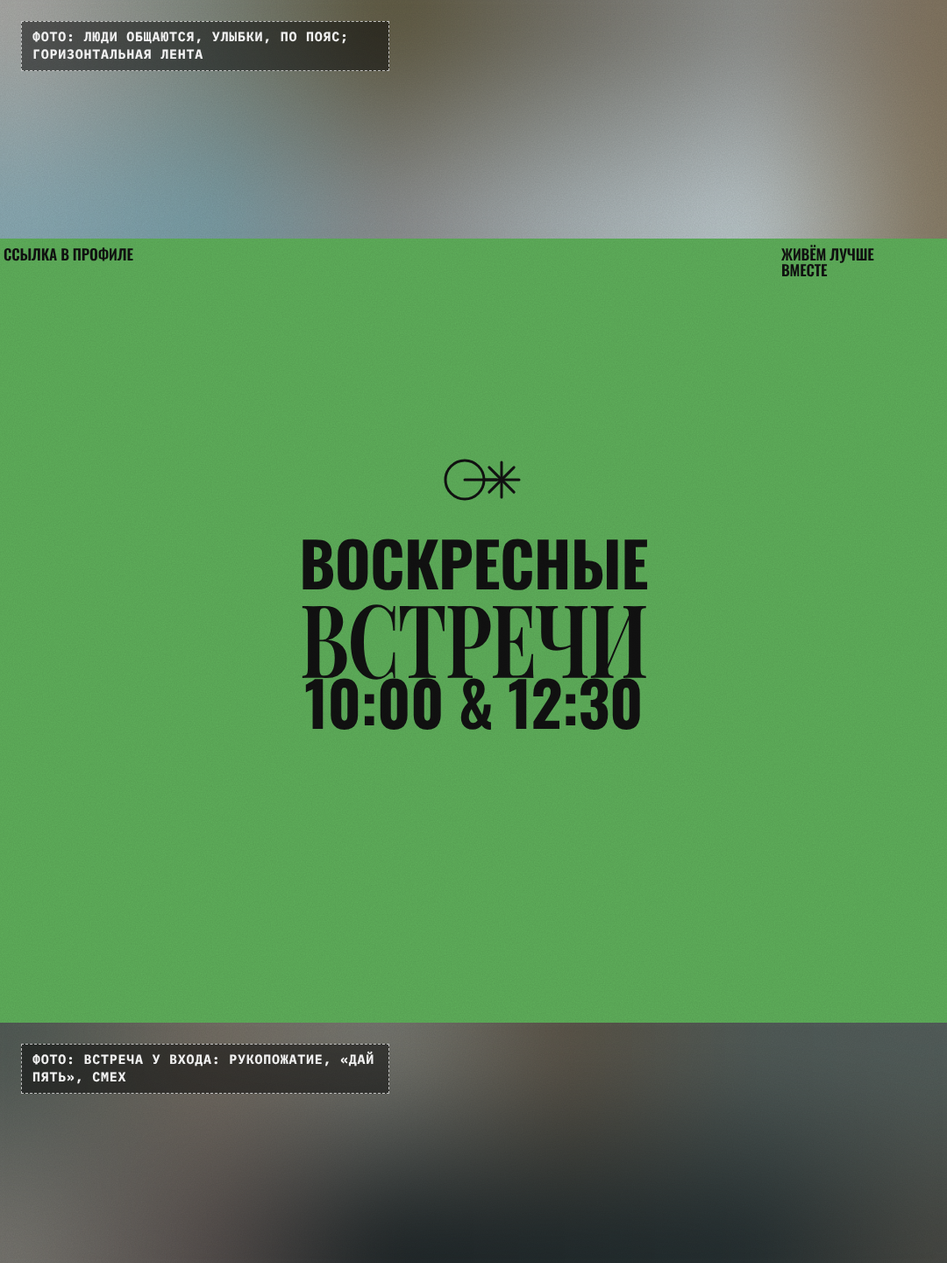
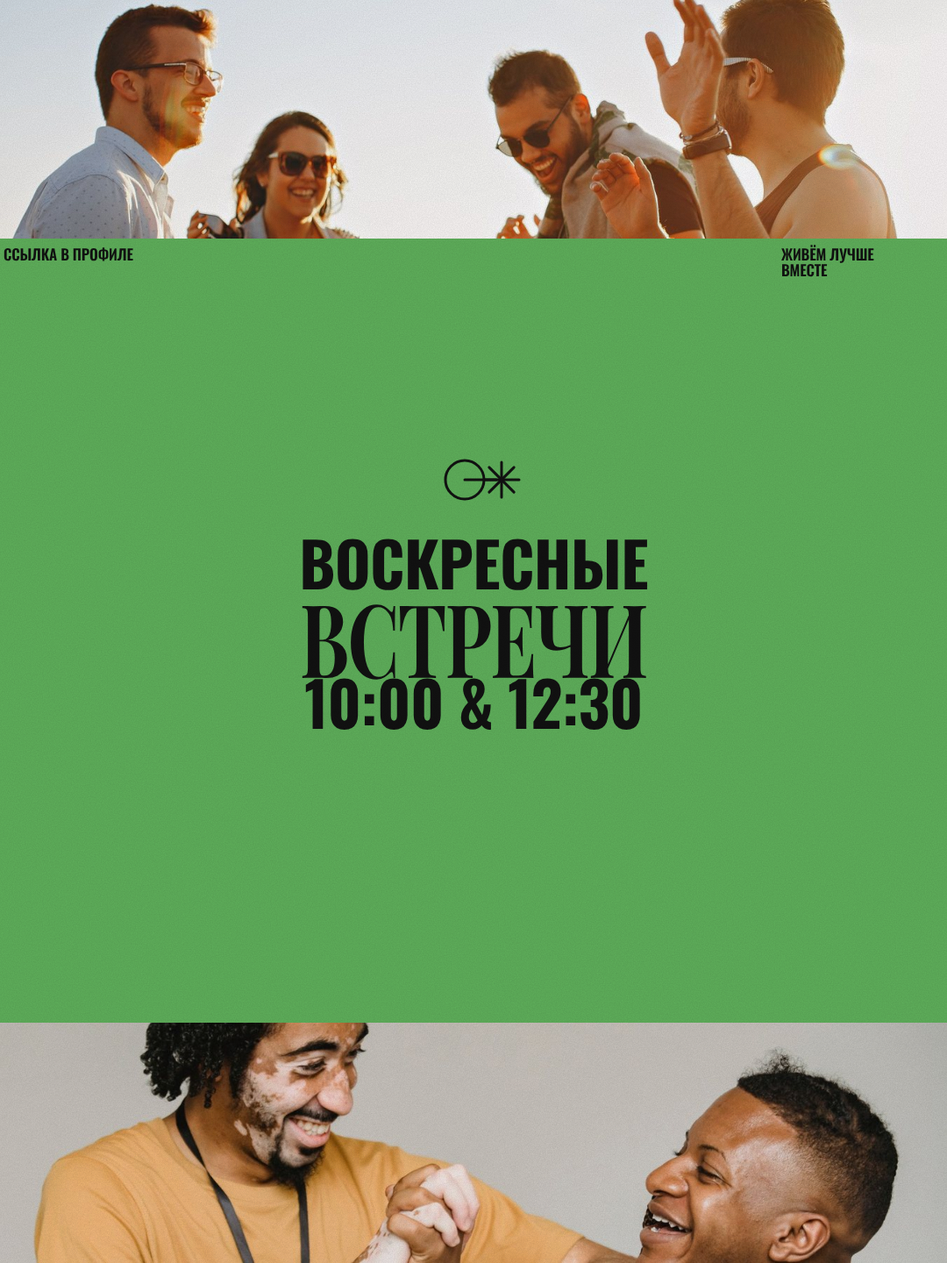
Близнецы: стоковые фото вместо размытых заглушек
В девяти близнецах (001, 003, 006, 015, 021, 036, 037, 049, 072) слоты и силуэты
заменены фото с Pexels (бесплатная лицензия Pexels). Людей для 006, 015, 021,
руку в 001 и бокал с хлебом в 049 вырезал rembg.

Источники (pexels.com/photo/<номер>): 6672761, 9831736, 15448072, 10401281,
18259215, 8217536, 33167538, 7081122, 17938981, 708392, 5304083, 31874011,
7597560, 10281119, 15021636. Таблица с авторами и обработкой — STOCK.md.

Claude-Session: https://claude.ai/code/session_01QcpF8q36dATzwPnrN5PE56

diff --git a/projects/2026-10-18-twins/twin-006.html b/projects/2026-10-18-twins/twin-006.html
@@ -14,6 +14,8 @@
   :root { --mustard: #F0A80C; --dark: #1a1a1a; }
   body, .canvas { background: var(--dark); }
   .slot.bg .ph { filter: blur(34px) grayscale(1) contrast(1.4) brightness(.85); }
+  .slot.bg img { filter: grayscale(1) contrast(1.4) brightness(.85); }
+  .pastor { left: 330px; top: 425px; width: 525px; z-index: 4; filter: url(#outline); }
   .duo { position: absolute; inset: 0; background: #C48C0E; mix-blend-mode: multiply; z-index: 2; }
   .brush { font: 400 150px/1 'Comforter Brush'; color: var(--mustard); -webkit-text-stroke: 6px var(--mustard); white-space: nowrap; }
   .title { left: 94px; top: 280px; transform: rotate(-4deg) scaleY(1.45); transform-origin: left center; z-index: 3; }
@@ -24,17 +26,20 @@
 </head>
 <body>
 <main class="canvas grain-light">
-  <div class="slot bg" style="left: 0; top: 0; width: 1080px; height: 1350px; z-index: 1;" data-ph="assets/ph-006-1.png"
+  <div class="slot bg" style="left: 0; top: 0; width: 1080px; height: 1350px; z-index: 1;" data-src="assets/006-bg.jpg" data-ph="assets/ph-006-1.png"
        data-need="фон: люди в зале, крупные лица — уйдёт в горчичный дуотон" data-label="40,40"></div>
   <div class="duo"></div>
   <svg class="art" id="scratch" width="1080" height="1350" viewBox="0 0 1080 1350" style="z-index: 3"></svg>
   <div class="abs brush title" id="title">Заметки с проповеди</div>
-  <svg class="art" id="person" width="1080" height="1350" viewBox="0 0 1080 1350" style="z-index: 4"></svg>
+  <svg width="0" height="0" style="position: absolute"><filter id="outline" x="-10%" y="-10%" width="120%" height="120%">
+    <feMorphology in="SourceAlpha" operator="dilate" radius="16" result="d"/>
+    <feFlood flood-color="#F0A80C"/><feComposite in2="d" operator="in" result="o"/>
+    <feMerge><feMergeNode in="o"/><feMergeNode in="SourceGraphic"/></feMerge></filter></svg>
+  <img class="cut pastor" src="assets/006-pastor.png" alt="">
   <svg class="art" id="marks" width="1080" height="1350" viewBox="0 0 1080 1350" style="z-index: 6"></svg>
   <div class="abs note" style="left: 210px; top: 125px; width: 280px; transform: rotate(-8deg);">Бог видит<br>сердце!!!</div>
   <div class="abs note" style="left: 90px; top: 752px; width: 240px; font-size: 54px; transform: rotate(-20deg);">Пастор Иван</div>
   <div class="abs tape">18.10.26</div>
-  <div class="need" style="left: 300px; top: 1080px; z-index: 8;">Фото: проповедник с микрофоном, по пояс, без фона (PNG)</div>
 </main>
 <script src="twin.js"></script>
 <script>
@@ -48,9 +53,6 @@
     const a = Math.PI / 2 + (random() - 0.5) * 0.5;
     svgEl(scratch, 'line', { x1: x, y1: y, x2: x + len * Math.cos(a), y2: y + len * Math.sin(a), stroke: '#fff', 'stroke-width': (0.5 + random()).toFixed(2), 'stroke-opacity': (0.05 + random() * 0.12).toFixed(2) });
   }
-  // Вырезанный проповедник: заглушка-силуэт с толстой горчичной обводкой.
-  drawBust(document.getElementById('person'), 270, 445, 648, 905, { fill: '#9a968f', outline: '#F0A80C', width: 16 });
-
   const marks = document.getElementById('marks');
   const white = { fill: 'none', stroke: '#F4F2EE', 'stroke-width': 5, 'stroke-linecap': 'round', 'stroke-linejoin': 'round' };
   svgEl(marks, 'path', { d: handOval(350, 180, 142, 105, random, 1.06), ...white, transform: 'rotate(-8 350 180)' });

diff --git a/projects/2026-10-18-twins/twin-021.html b/projects/2026-10-18-twins/twin-021.html
@@ -20,6 +20,9 @@
   .card { position: absolute; background: var(--card); border-radius: 34px; box-shadow: 0 10px 30px rgba(0,0,0,.25); }
   .pic { position: absolute; background: var(--mustard); border-radius: 24px; }
   .txt { position: absolute; }
+  /* Люди без фона в ч/б: низ обрезан по плашке, головы выходят вверх. */
+  .cutbox { border-radius: 0 0 24px 24px; }
+  .cutbox img { position: absolute; bottom: 0; left: 50%; transform: translateX(-50%); filter: grayscale(1) contrast(1.1); }
   .txt .d { font: 500 33px/1 'Montserrat'; letter-spacing: -0.01em; text-transform: uppercase; }
   .txt .c { margin-top: 12px; font: 400 21px/1.1 'Montserrat'; text-transform: uppercase; }
   .txt .n { margin-top: 10px; font: 700 28px/1 'Montserrat'; color: var(--mustard); text-transform: uppercase; letter-spacing: -0.01em; }
@@ -52,9 +55,11 @@
   <div class="pic" style="left: 633px; top: 990px; width: 317px; height: 196px;"></div>
   <div class="txt" style="left: 294px; top: 994px;"><div class="d">Вс 25 окт</div><div class="c">Служение | 10:00</div><div class="n">Первое служение</div><hr><div class="c" style="margin-top: 0">Служение | 12:30</div><div class="n">Второе служение</div></div>
 
-  <svg class="art" id="people" width="1080" height="1350" viewBox="0 0 1080 1350"></svg>
+  <div class="cutbox" style="left: 119px; top: 123px; width: 313px; height: 309px;"><img src="assets/021-1.png" style="width: 200px;" alt=""></div>
+  <div class="cutbox" style="left: 633px; top: 373px; width: 317px; height: 316px;"><img src="assets/021-2.png" style="width: 370px;" alt=""></div>
+  <div class="cutbox" style="left: 119px; top: 622px; width: 313px; height: 310px;"><img src="assets/021-3.png" style="width: 300px;" alt=""></div>
+  <div class="cutbox" style="left: 633px; top: 870px; width: 317px; height: 316px;"><img src="assets/021-4.png" style="width: 290px;" alt=""></div>
   <div class="abs foot"><span>Адрес церкви<br>город, улица, дом</span><i></i><span class="r">Вопросы:<br>ссылка в профиле</span></div>
-  <div class="need" style="left: 640px; top: 1210px; max-width: 380px;">Фото: люди со служений без фона (PNG), по 1–3 на карточку</div>
 </main>
 <script src="twin.js"></script>
 <script>
@@ -67,13 +72,6 @@
     for (let x = -40; x <= 1120; x += 80) pts.push([x, base + Math.sin(x / 160 + k) * 40 + random() * 20]);
     svgEl(topo, 'path', { d: smoothOpen(pts), fill: 'none', stroke: '#3a342c', 'stroke-width': 1.2, 'stroke-opacity': 0.6 });
   }
-  // Люди без фона в фото-плашках: голова первого выходит за верх плашки, как в референсе.
-  const people = document.getElementById('people');
-  const gray = { fill: '#8f8b85' };
-  drawBust(people, 190, 205, 170, 227, gray);
-  drawBust(people, 660, 520, 120, 169, gray); drawBust(people, 760, 505, 120, 184, gray); drawBust(people, 850, 525, 100, 164, gray);
-  drawBust(people, 140, 725, 130, 207, gray); drawBust(people, 250, 735, 140, 197, gray);
-  drawBust(people, 660, 970, 140, 216, gray); drawBust(people, 790, 985, 140, 201, gray);
 </script>
 </body>
 </html>

diff --git a/projects/2026-10-18-twins/twin-049.html b/projects/2026-10-18-twins/twin-049.html
@@ -18,14 +18,31 @@
   .script { left: 120px; top: 380px; font: 400 230px/1 'Great Vibes'; color: #2a2a2a; white-space: nowrap; }
   .heavy { left: 97px; top: 590px; font: 900 200px/0.9 'Inter'; letter-spacing: -0.05em; text-transform: uppercase; white-space: nowrap;
            background: linear-gradient(180deg, #6d6d6d 0%, #1a1a1a 55%, #000 100%); -webkit-background-clip: text; background-clip: text; color: transparent; }
+  .still { position: absolute; left: 108px; top: 845px; width: 864px; height: 620px; }
+  .still img { position: absolute; }
+  .still .glass { left: 344px; top: 0; width: 220px; }
+  .still .bread { left: 414px; top: 318px; width: 380px; }
+  /* Тень: тот же силуэт, чёрный, сплющенный и скошенный от основания вниз-влево. */
+  .still .sh { filter: brightness(0) blur(5px); transform-origin: 50% 100%; }
+  .still .sh.glass { transform: scaleY(-.42) skewX(52deg); opacity: .13; }
+  .still .sh.bread { transform: translateY(-14px) scaleY(-.42) skewX(55deg); opacity: .2; }
+  /* Красный блик вина на тени бокала. */
+  .still .caustic { position: absolute; left: 312px; top: 466px; width: 140px; height: 42px; border-radius: 50%;
+                    background: radial-gradient(closest-side, rgba(225, 25, 25, .55), rgba(225, 25, 25, 0)); filter: blur(4px); mix-blend-mode: multiply; }
   .addr { left: 0; right: 0; top: 1500px; text-align: center; font: 400 27px/1.4 'Inter'; }
 </style>
 </head>
 <body>
 <main class="canvas grain">
   <div class="abs row"><span>Воскресенье</span><span>10:00</span><span>1 ноября</span></div>
-  <div class="slot" style="left: 108px; top: 845px; width: 864px; height: 620px; background: #efefed;" data-ph="assets/ph-049-1.png"
-       data-need="предметка: стакан вина и хлеб на белом, жёсткий свет, длинные тени" data-label="128,1380"></div>
+  <!-- Предметка собрана из двух стоковых вырезок (бокал и хлеб) с длинными тенями вниз-влево, как в референсе. -->
+  <div class="still">
+    <img class="sh glass" src="assets/049-glass.png" alt="">
+    <img class="sh bread" src="assets/049-bread.png" alt="">
+    <div class="caustic"></div>
+    <img class="glass" src="assets/049-glass.png" alt="">
+    <img class="bread" src="assets/049-bread.png" alt="">
+  </div>
   <div class="abs script" id="script">Святая</div>
   <div class="abs heavy" id="heavy">Вечеря</div>
   <div class="abs addr">Адрес церкви — улица, дом<br>Название церкви</div>

diff --git a/projects/2026-10-18-twins/twin-015.html b/projects/2026-10-18-twins/twin-015.html
@@ -15,6 +15,7 @@
   body, .canvas { background: var(--bg); color: #fff; }
   .ghost { font: 900 300px/0.8 'Fira Sans Extra Condensed'; text-transform: uppercase; white-space: nowrap;
            background: linear-gradient(180deg, #4a4a4a, #1c1c1c 80%); -webkit-background-clip: text; background-clip: text; color: transparent; }
+  .singer { left: 455px; top: 112px; width: 360px; filter: grayscale(1) contrast(1.15); }
   .block { position: absolute; background: var(--orange); overflow: hidden; }
   .block span { position: absolute; left: 12px; top: 0; font: 900 200px/0.8 'Fira Sans Extra Condensed'; color: #121212;
                 text-transform: uppercase; white-space: nowrap; transform-origin: left top; }
@@ -35,7 +36,7 @@
   <div class="abs ghost" data-bleed style="left: 800px; top: -40px;">Ждём</div>
   <div class="abs ghost" data-bleed style="left: -60px; top: 880px;">тебя</div>
   <div class="block" style="left: 98px; top: 95px; width: 711px; height: 347px;"><span id="w1" data-bleed>Ждём</span></div>
-  <svg class="art" id="person" width="1080" height="1080" viewBox="0 0 1080 1080"></svg>
+  <img class="cut singer" src="assets/015-singer.png" alt="">
   <div class="block" style="left: 341px; top: 490px; width: 578px; height: 283px;"><span id="w2" data-bleed>тебя</span></div>
   <div class="abs date">25<br>10<br>26</div>
   <div class="abs time">10:00<br>12:30</div>
@@ -44,13 +45,9 @@
   <div class="abs spk">Пастор<br>Иван</div>
   <div class="abs info">Подробнее<br>ссылка в профиле</div>
   <div class="abs addr">Наша церковь<br>адрес здесь<br>город, улица</div>
-  <div class="need" style="left: 560px; top: 150px;">Фото: поющий человек с микрофоном, ч/б, без фона (PNG)</div>
 </main>
 <script src="twin.js"></script>
 <script>
-  // Вырезанный человек стоит перед первой плашкой и касается второй.
-  drawBust(document.getElementById('person'), 330, 140, 400, 357, { fill: '#8d8a86' });
-
   afterFonts(["900 100px 'Fira Sans Extra Condensed'", "800 52px 'Montserrat'"], () => {
     // Слово растягиваем по ширине плашки и по высоте до ~95 %, как сверхузкий шрифт референса.
     for (const [id, w, h] of [['w1', 690, 347], ['w2', 556, 283]]) {

diff --git a/projects/2026-10-18-twins/twin-072.html b/projects/2026-10-18-twins/twin-072.html
@@ -22,6 +22,9 @@
   .date { left: 925px; top: 860px; font: 700 64px/0.9 'Fira Sans Extra Condensed'; text-transform: uppercase; z-index: 5; }
   .date .r { color: var(--red); }
   .spk { left: 0; right: 0; top: 1020px; text-align: center; font: 700 46px/0.95 'Oswald'; color: #fff; text-transform: uppercase; z-index: 5; }
+  /* Фото растворяется в бумаге сверху и справа, как в референсе: подпись и дата лежат на светлом. */
+  .fade { -webkit-mask-image: linear-gradient(180deg, transparent 0, #000 26%), linear-gradient(270deg, transparent 0, #000 22%);
+          -webkit-mask-composite: source-in; mask-composite: intersect; }
   .band { position: absolute; left: 0; right: 0; bottom: 0; height: 290px; background: #0f0f0f; clip-path: polygon(0 18%, 100% 4%, 100% 100%, 0 100%); z-index: 4; }
   .bottom { left: 128px; right: 66px; top: 1330px; display: flex; align-items: center; justify-content: space-between; z-index: 5; }
   .join { font: 900 62px/1 'Fira Sans Extra Condensed'; color: var(--red); text-transform: uppercase; }
@@ -36,7 +39,7 @@
   <div class="abs name">Название<br>вашей<br>церкви</div>
   <svg class="art" id="icon" width="1080" height="1440" viewBox="0 0 1080 1440"></svg>
   <div class="abs badge">Служение<br>в среду</div>
-  <div class="slot" style="left: 170px; top: 605px; width: 845px; height: 760px; filter: grayscale(1) contrast(1.15);" data-ph="assets/ph-072-1.png"
+  <div class="slot fade" style="left: 170px; top: 605px; width: 845px; height: 760px; filter: grayscale(1) contrast(1.15);" data-src="assets/072.jpg" data-ph="assets/ph-072-1.png"
        data-need="люди обнимаются кругом, молятся вместе; ч/б, крупно" data-label="190,1150"></div>
   <div class="abs cond t1" id="t1">В Его</div>
   <div class="abs cond t2" id="t2">присутствии</div>

diff --git a/projects/2026-10-18-twins/twin-036.html b/projects/2026-10-18-twins/twin-036.html
@@ -20,7 +20,7 @@
 </head>
 <body>
 <main class="canvas grain">
-  <div class="slot" style="left: 0; top: 0; width: 1080px; height: 272px;" data-ph="assets/ph-036-1.png"
+  <div class="slot" style="left: 0; top: 0; width: 1080px; height: 272px;" data-src="assets/036-top.jpg" data-ph="assets/ph-036-1.png"
        data-need="люди общаются, улыбки, по пояс; горизонтальная лента" data-label="24,24"></div>
   <div class="abs tiny" style="left: 4px;">Ссылка в профиле</div>
   <div class="abs tiny" style="left: 891px;">Живём лучше<br>вместе</div>
@@ -28,7 +28,7 @@
   <div class="abs c sans" style="top: 606px;">Воскресные</div>
   <div class="abs c serif" style="top: 668px;">встречи</div>
   <div class="abs c sans" style="top: 765px;">10:00 &amp; 12:30</div>
-  <div class="slot" style="left: 0; top: 1166px; width: 1080px; height: 274px;" data-ph="assets/ph-036-2.png"
+  <div class="slot" style="left: 0; top: 1166px; width: 1080px; height: 274px;" data-src="assets/036-bottom.jpg" data-ph="assets/ph-036-2.png"
        data-need="встреча у входа: рукопожатие, «дай пять», смех" data-label="24,1190"></div>
 </main>
 <script src="twin.js"></script>

diff --git a/projects/2026-10-18-twins/twin-001.html b/projects/2026-10-18-twins/twin-001.html
@@ -19,10 +19,12 @@
 </head>
 <body>
 <main class="canvas grain">
-  <div class="slot" style="left: 0; top: 0; width: 1080px; height: 1350px;" data-ph="assets/ph-001-1.png"
+  <div class="slot" style="left: 0; top: 0; width: 1080px; height: 1350px;" data-src="assets/001.jpg" data-ph="assets/ph-001-1.png"
        data-need="крещение: человек в воде, брызги, эмоция; рука поверх букв — отдельным вырезанным слоем" data-label="40,1220"></div>
   <div class="abs meta"><span>10:00</span><i></i><span>Ссылка в профиле</span></div>
   <div class="abs title" id="title"><span id="t1">День</span><br><span id="t2">крещения</span></div>
+  <!-- Поднятая рука пастора — отдельный вырезанный слой поверх конца заголовка, как в референсе. -->
+  <img class="cut" src="assets/001-hand.png" style="left: 340px; top: 437px; width: 669.6px; z-index: 6;" alt="">
 </main>
 <script src="twin.js"></script>
 <script>

diff --git a/projects/2026-10-18-twins/twin.css b/projects/2026-10-18-twins/twin.css
@@ -9,6 +9,9 @@ svg.art { position: absolute; inset: 0; }
 .slot { position: absolute; overflow: hidden; background: #5c5a57; }
 .slot .ph { position: absolute; inset: -70px; background-size: cover; background-position: center; filter: blur(34px); }
 .slot img { position: absolute; inset: 0; width: 100%; height: 100%; object-fit: cover; }
+/* Вырезанный человек (PNG без фона); .cutbox обрезает его по низу фото-плашки, голова может выходить вверх. */
+.cut { position: absolute; display: block; }
+.cutbox { position: absolute; overflow: hidden; }
 .need {
   position: absolute; z-index: 40; padding: 8px 12px; max-width: 420px;
   font: 600 15px/1.3 'IBM Plex Mono', monospace; letter-spacing: .05em; text-transform: uppercase;

diff --git a/projects/2026-10-18-twins/twin-037.html b/projects/2026-10-18-twins/twin-037.html
@@ -24,7 +24,7 @@
   <div class="abs m" style="left: 708px; top: 438px;">Ваш район</div>
   <div class="abs m" style="left: 48px; top: 607px;">Дом<br>поклонения</div>
   <div class="abs m" style="right: 48px; top: 607px; text-align: right;">Место встречи<br>с Иисусом</div>
-  <div class="slot" style="left: 0; top: 720px; width: 1080px; height: 720px;" data-ph="assets/ph-037-1.png"
+  <div class="slot" style="left: 0; top: 720px; width: 1080px; height: 720px;" data-src="assets/037.jpg" data-ph="assets/ph-037-1.png"
        data-need="люди у входа в церковь, солнечный день, плёночные тёплые цвета" data-label="24,1360"></div>
 </main>
 <script src="twin.js"></script>

diff --git a/projects/2026-10-18-twins/twin-003.html b/projects/2026-10-18-twins/twin-003.html
@@ -20,7 +20,7 @@
 </head>
 <body>
 <main class="canvas grain">
-  <div class="slot" style="left: 0; top: 0; width: 1080px; height: 1350px;" data-ph="assets/ph-003-1.png"
+  <div class="slot" style="left: 0; top: 0; width: 1080px; height: 1350px;" data-src="assets/003.jpg" data-ph="assets/ph-003-1.png"
        data-need="поклонение: зал со спины, поднятые руки; светлый верх кадра под текст" data-label="40,1220"></div>
   <div class="abs meta"><span>Ты приглашён</span><i></i><span class="r">10:00 | 12:30</span></div>
   <div class="abs line" id="l1">Почему стоит</div>

diff --git a/projects/2026-10-18-twins/STOCK.md b/projects/2026-10-18-twins/STOCK.md
@@ -1,27 +1,38 @@
-# Фото для близнецов: что найти на стоках
+# Фото в близнецах: стоки и источники
 
-Только фото со свободной лицензией: **Unsplash**, **Pexels**, **Pixabay** (разрешено коммерческое использование,
-указывать автора не обязательно, но источник пишем в коммите). Фото из референсов и с Pinterest не берём:
-это снимки чужих церквей и реальных людей без лицензии.
+Все фото — с **Pexels** (бесплатная лицензия Pexels: коммерческое использование разрешено, указывать автора
+не обязательно). Фото из референсов и с Pinterest не берём: это снимки чужих церквей и реальных людей без лицензии.
 
-Как передать: скачать в самом большом размере и загрузить на GitHub в `projects/2026-10-18-twins/assets/`
-под именем из таблицы (Add file → Upload files) — или прислать ссылки на страницы фото, если в настройках среды
-открыт доступ к этим сайтам. Вырезанный человек (PNG без фона) — на iPhone/Mac: долгое нажатие на человека →
-«Скопировать объект».
+Важно: на стоковых фото — модели, а не наши люди. Подпись «Пастор Иван» рядом со стоковым человеком (006) —
+черновик: перед публикацией поставить фото настоящего пастора. Своих людей и детей — только в приватный репозиторий.
 
-| Макет | Файл | Что на фото | Ориентация | Искать (англ.) |
+## Что стоит сейчас
+
+| Файл | Макет | Фото Pexels | Автор | Обработка |
 |---|---|---|---|---|
-| 001 «День крещения» | `001.jpg` | человек в воде в момент крещения, брызги, эмоция | вертикаль | `baptism water`, `river baptism`, `water splash joy` |
-| 001 | `001-hand.png` | рука, вырезанная без фона (ляжет поверх букв) | любая | из того же снимка или `raised hand` |
-| 003 «Почему стоит прийти» | `003.jpg` | зал со спины, поднятые руки; светлый верх кадра под текст | вертикаль | `worship hands raised`, `church worship crowd`, `concert hands light` |
-| 006 «Заметки с проповеди» | `006-bg.jpg` | люди в зале, крупные лица (уйдёт в горчичный дуотон) | горизонталь | `church congregation`, `audience listening` |
-| 006 | `006-pastor.png` | проповедник по пояс, жест рукой, без фона | вертикаль | `preacher speaking`, `pastor microphone`, `man speaking gesture` |
-| 015 «Ждём тебя» | `015-pastor.png` | проповедник по грудь, без фона | вертикаль | `pastor portrait`, `man smiling portrait` |
-| 021 «Эта неделя» | `021-1.png` … `021-8.png` | 8 людей по пояс без фона: молодёжь, пары, по одному | вертикаль | `young people portrait`, `friends standing`, `woman smiling portrait` |
-| 036 «Воскресные встречи» | `036-top.jpg` | люди общаются, улыбки, по пояс | горизонталь | `friends talking laughing`, `community gathering` |
-| 036 | `036-bottom.jpg` | встреча у входа: рукопожатие, «дай пять», смех | горизонталь | `handshake greeting`, `high five friends` |
-| 037 «Дом Отца» | `037.jpg` | люди у входа в церковь, солнечный день, тёплая плёнка | квадрат/горизонталь | `people church entrance`, `film photo people outside` |
-| 049 «Святая Вечеря» | `049.jpg` | бокал/стакан вина и хлеб на белом, жёсткий свет, длинные тени | горизонталь | `communion bread wine`, `wine glass bread shadow` |
-| 072 «В Его присутствии» | `072.jpg` | люди обнимаются кругом, молятся вместе (сделаем ч/б) | квадрат | `group prayer`, `people praying together`, `group hug` |
+| `001.jpg`, `001-hand.png` | 001 крещение | [6672761](https://www.pexels.com/photo/6672761/) | Andrii Ishchenko | отражено по горизонтали; поднятая рука — отдельным вырезанным слоем поверх заголовка |
+| `003.jpg` | 003 почему стоит прийти | [9831736](https://www.pexels.com/photo/9831736/) | Daniel Queiroz | кадр 4:5 от верха |
+| `006-bg.jpg` | 006 заметки с проповеди, фон | [15448072](https://www.pexels.com/photo/15448072/) | Luis Quintero | ч/б + горчичный дуотон в макете |
+| `006-pastor.png` | 006 проповедник | [10401281](https://www.pexels.com/photo/10401281/) | | вырезан (rembg), по бёдра, обводка в макете |
+| `015-singer.png` | 015 ждём тебя | [18259215](https://www.pexels.com/photo/18259215/) | Eduardo López | вырезан, ч/б в макете |
+| `021-1.png` | 021 неделя, вторник | [8217536](https://www.pexels.com/photo/8217536/) | MART PRODUCTION | вырезан, ч/б |
+| `021-2.png` | 021 неделя, четверг | [33167538](https://www.pexels.com/photo/33167538/) | | вырезан, ч/б |
+| `021-3.png` | 021 неделя, пятница | [7081122](https://www.pexels.com/photo/7081122/) | | вырезан, ч/б |
+| `021-4.png` | 021 неделя, воскресенье | [17938981](https://www.pexels.com/photo/17938981/) | | вырезан, ч/б |
+| `036-top.jpg` | 036 встречи, верх | [708392](https://www.pexels.com/photo/708392/) | | лента 4:1 |
+| `036-bottom.jpg` | 036 встречи, низ | [5304083](https://www.pexels.com/photo/5304083/) | Armin Rimoldi | лента 4:1 |
+| `037.jpg` | 037 дом Отца | [31874011](https://www.pexels.com/photo/31874011/) | Helena Jankovičová Kováčová | 3:2 |
+| `049-glass.png` | 049 Вечеря, бокал | [7597560](https://www.pexels.com/photo/7597560/) | Alexandru Molnar | вырезан |
+| `049-bread.png` | 049 Вечеря, хлеб | [10281119](https://www.pexels.com/photo/10281119/) | | вырезан передний каравай; тени и красный блик — CSS |
+| `072.jpg` | 072 в Его присутствии | [15021636](https://www.pexels.com/photo/15021636/) | | ч/б, растворяется в бумаге сверху и справа |
 
-045 (рекламный щит в небе) фото не нужно — небо нарисовано.
+045 (щит в небе) фото не нужно — небо нарисовано. `ph-*.png` — размытые цветовые пятна референсов (запасные заглушки).
+
+## Как это делалось (для следующих фото)
+
+- Unsplash и Pixabay из облачной среды не работают: Unsplash закрыт проверкой на бота, Pixabay — Cloudflare.
+  Pexels: поиск через WebSearch (`pexels ...`, домен pexels.com), картинка напрямую с CDN по номеру фото:
+  `https://images.pexels.com/photos/<id>/pexels-photo-<id>.jpeg?auto=compress&cs=tinysrgb&w=2400`.
+- Вырезать человека: `pip install "rembg[cpu]"` в venv, модели `u2net_human_seg` (люди, тёмный фон) или
+  `isnet-general-use` (предметы, светлый фон) — скачиваются с GitHub при первом запуске.
+- Свои фото людей: присылать оригиналы в `assets/`; PNG без фона можно сделать на iPhone/Mac («Скопировать объект»).

diff --git a/CLAUDE.md b/CLAUDE.md
@@ -21,6 +21,8 @@
   а своего фото нет, — слот `<div class="slot" data-ph=… data-need="что снять">` из `projects/2026-10-18-twins/twin.css|js`:
   размытое цветовое пятно 8×10 px с референса (не сам снимок) и подпись, что снять. Вырезанный человек — `drawBust()`.
   Когда пользователь пришлёт фото: `data-src="assets/фото.jpg"` (или PNG без фона вместо силуэта) — слот подставит его.
+- Пока своих фото нет — стоковые с Pexels (поиск, загрузка с CDN, вырезка rembg и источники — в
+  `projects/2026-10-18-twins/STOCK.md`). Стоковый человек с именем («Пастор Иван») — только черновик до своего фото.
 - Надпись, которая по задумке уходит за край (как в референсе), помечать `data-bleed` — рендер не будет на неё ругаться.
 - Образцы работы по правилу — `projects/2026-10-17-by-refs/` и `projects/2026-10-18-twins/`. Не образцы: генеративные
   `projects/2026-10-16-instagram-10/` и вольные варианты `projects/2026-10-17-church-10/`.
